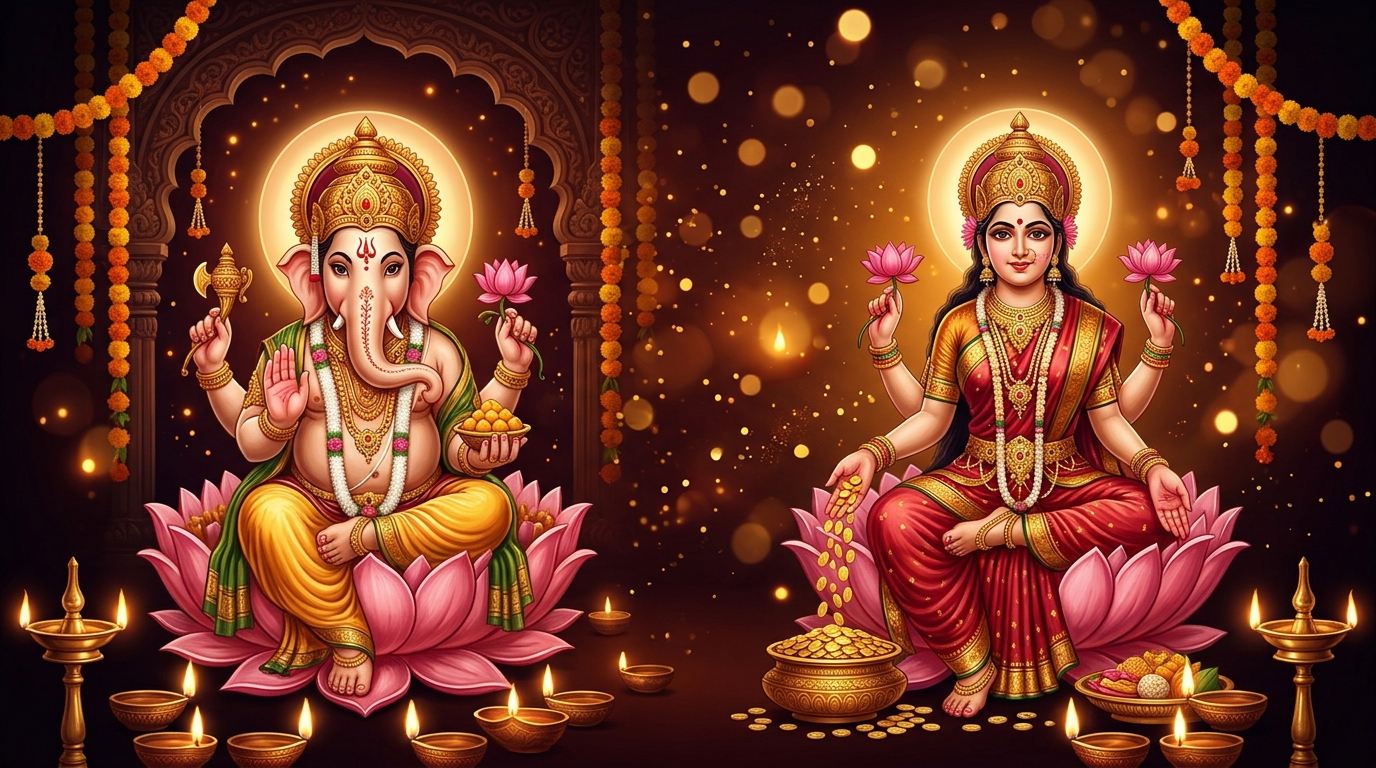
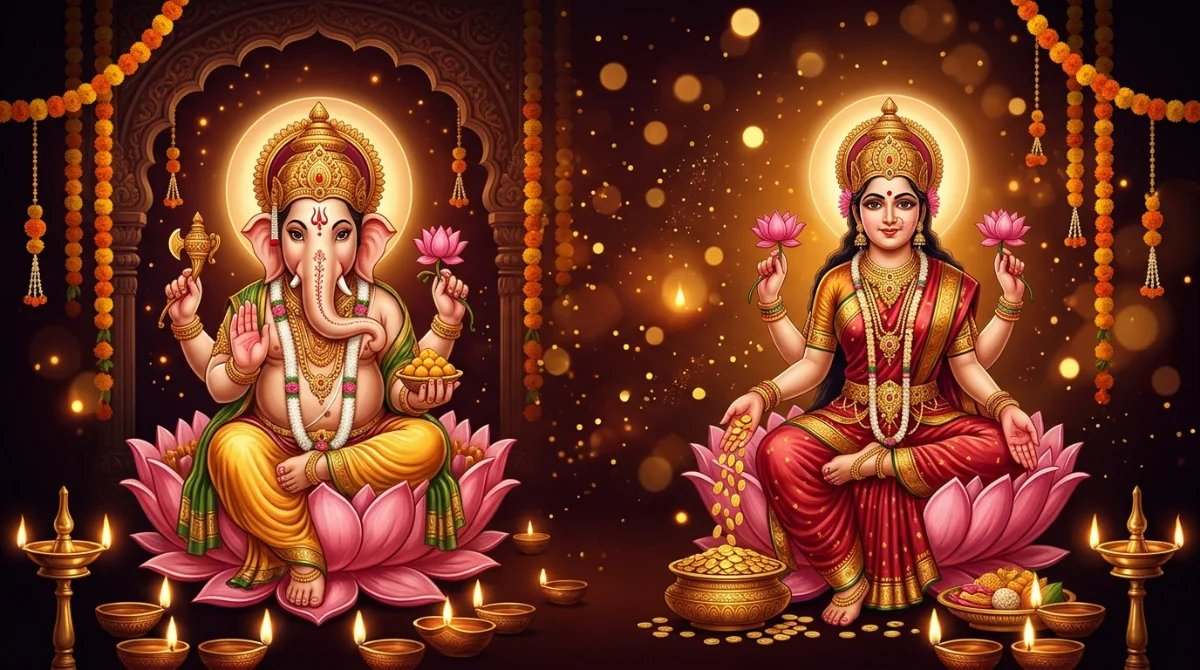
perf: convert images to ultra-light WebP, enable direct static delivery, and add preloading for instant zero-lag rendering

diff --git a/components/DiwaliGreetingAnimation.tsx b/components/DiwaliGreetingAnimation.tsx
@@ -77,6 +77,12 @@ export default function DiwaliGreetingAnimation() {
   useEffect(() => {
     setMounted(true);
 
+    // Instant browser prefetch into memory cache
+    if (typeof window !== 'undefined') {
+      const img = new window.Image();
+      img.src = '/images/lakshmi_ganesha_diwali.webp';
+    }
+
     // Check if it's Diwali Day (November 8, 2026 IST) or forced via query param
     const checkShouldOpen = () => {
       if (typeof window === 'undefined') return;
@@ -228,10 +234,11 @@ export default function DiwaliGreetingAnimation() {
         {/* Sacred Artwork of Lakshmi Ji & Ganesha Ji */}
         <div className="relative group w-full max-w-[260px] xs:max-w-[320px] sm:max-w-lg aspect-[16/9] rounded-xl sm:rounded-2xl overflow-hidden border border-amber-500/40 shadow-[0_0_35px_rgba(245,158,11,0.35)] transition-transform duration-700">
           <Image
-            src="/images/lakshmi_ganesha_diwali.jpg"
+            src="/images/lakshmi_ganesha_diwali.webp"
             alt="Divine Goddess Lakshmi and Lord Ganesha - Happy Diwali"
             fill
             priority
+            unoptimized
             sizes="(max-width: 640px) 320px, 512px"
             className="object-cover object-center"
           />

diff --git a/app/developer/page.tsx b/app/developer/page.tsx
@@ -23,10 +23,11 @@ export default function DeveloperPage() {
             <div className="absolute -inset-2.5 bg-gradient-to-tr from-amber-500 via-orange-500 to-amber-300 rounded-3xl blur-lg opacity-75 group-hover:opacity-100 transition duration-500" />
             <div className="relative w-60 h-72 sm:w-72 sm:h-88 md:w-80 md:h-[420px] rounded-3xl overflow-hidden border-2 border-amber-400/60 shadow-2xl bg-slate-900">
               <Image
-                src="/images/aditya.jpg"
+                src="/images/aditya.webp"
                 alt="Aditya Singh"
                 fill
                 priority
+                unoptimized
                 sizes="(max-width: 768px) 240px, 320px"
                 className="object-cover object-center group-hover:scale-105 transition duration-500"
               />

diff --git a/app/layout.tsx b/app/layout.tsx
@@ -20,6 +20,21 @@ export default function RootLayout({
 }) {
   return (
     <html lang="en">
+      <head>
+        <link
+          rel="preload"
+          as="image"
+          href="/images/lakshmi_ganesha_diwali.webp"
+          type="image/webp"
+          fetchPriority="high"
+        />
+        <link
+          rel="preload"
+          as="image"
+          href="/images/aditya.webp"
+          type="image/webp"
+        />
+      </head>
       <body className="bg-[#0d0a07] text-[#fef3c7] min-h-screen flex flex-col selection:bg-amber-500/30 selection:text-amber-200 relative overflow-x-hidden">
         <DiyaBackground />
         <DiwaliGreetingAnimation />

diff --git a/components/DiwaliReplayButton.tsx b/components/DiwaliReplayButton.tsx
@@ -21,3 +21,4 @@ export default function DiwaliReplayButton() {
     </button>
   );
 }
+
